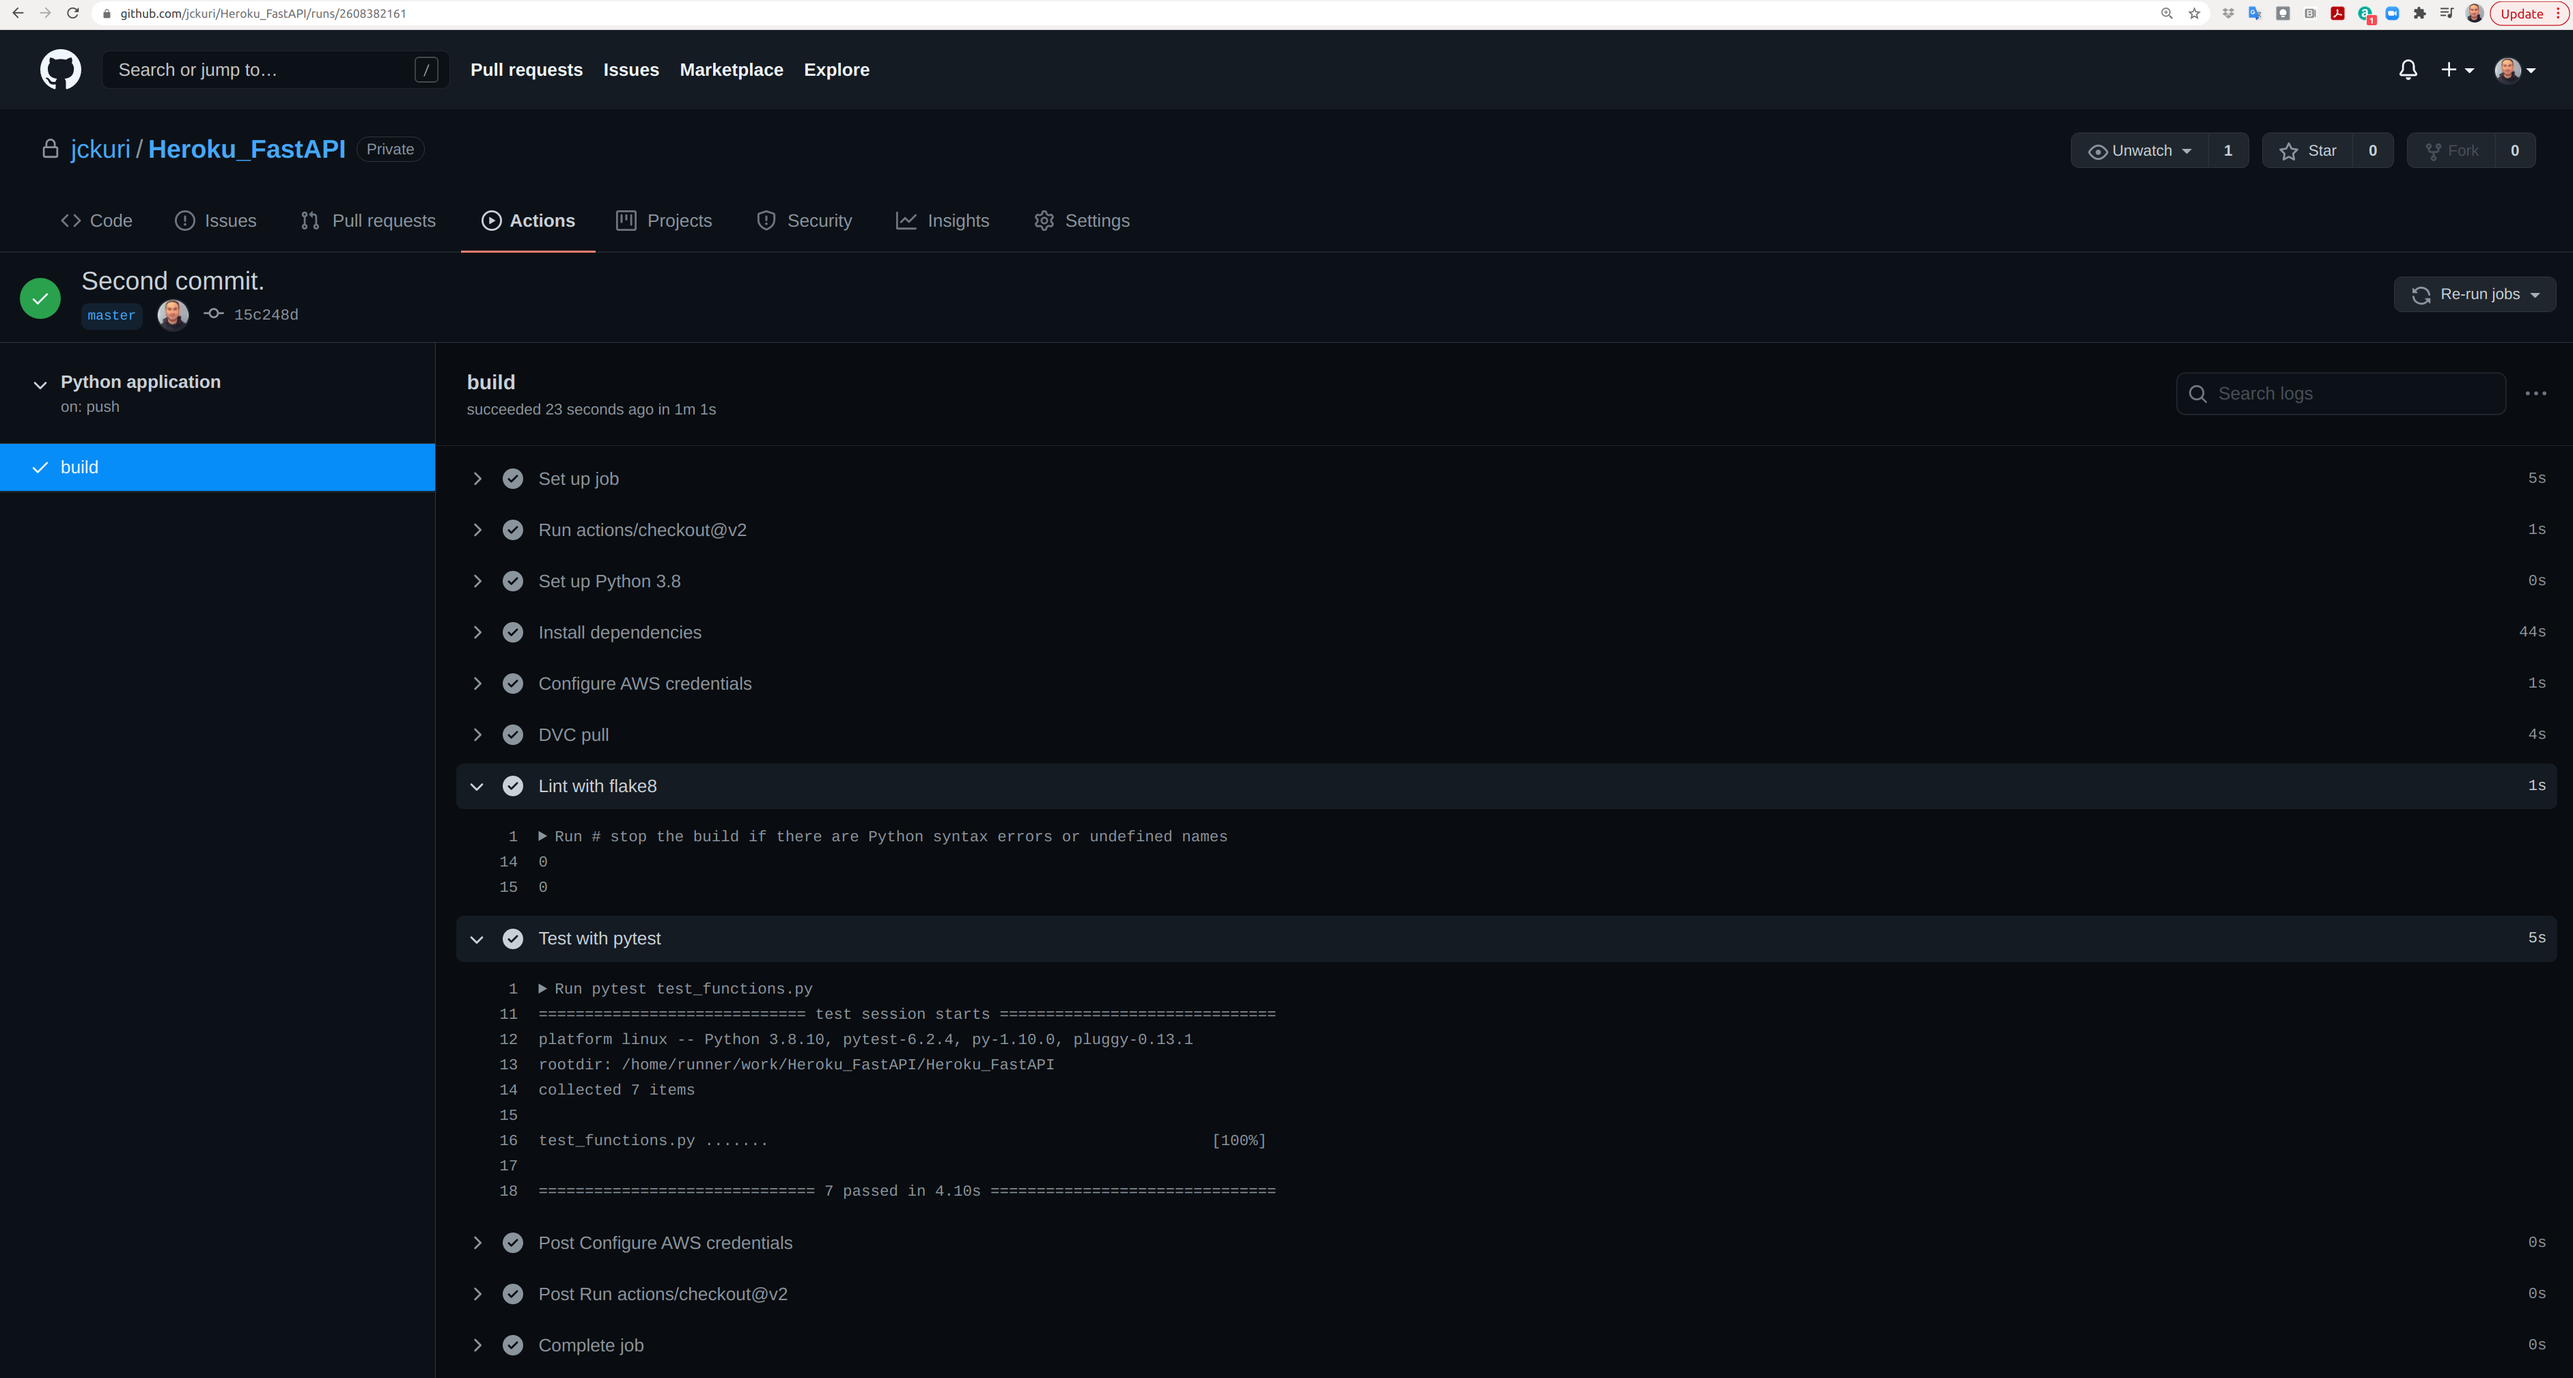
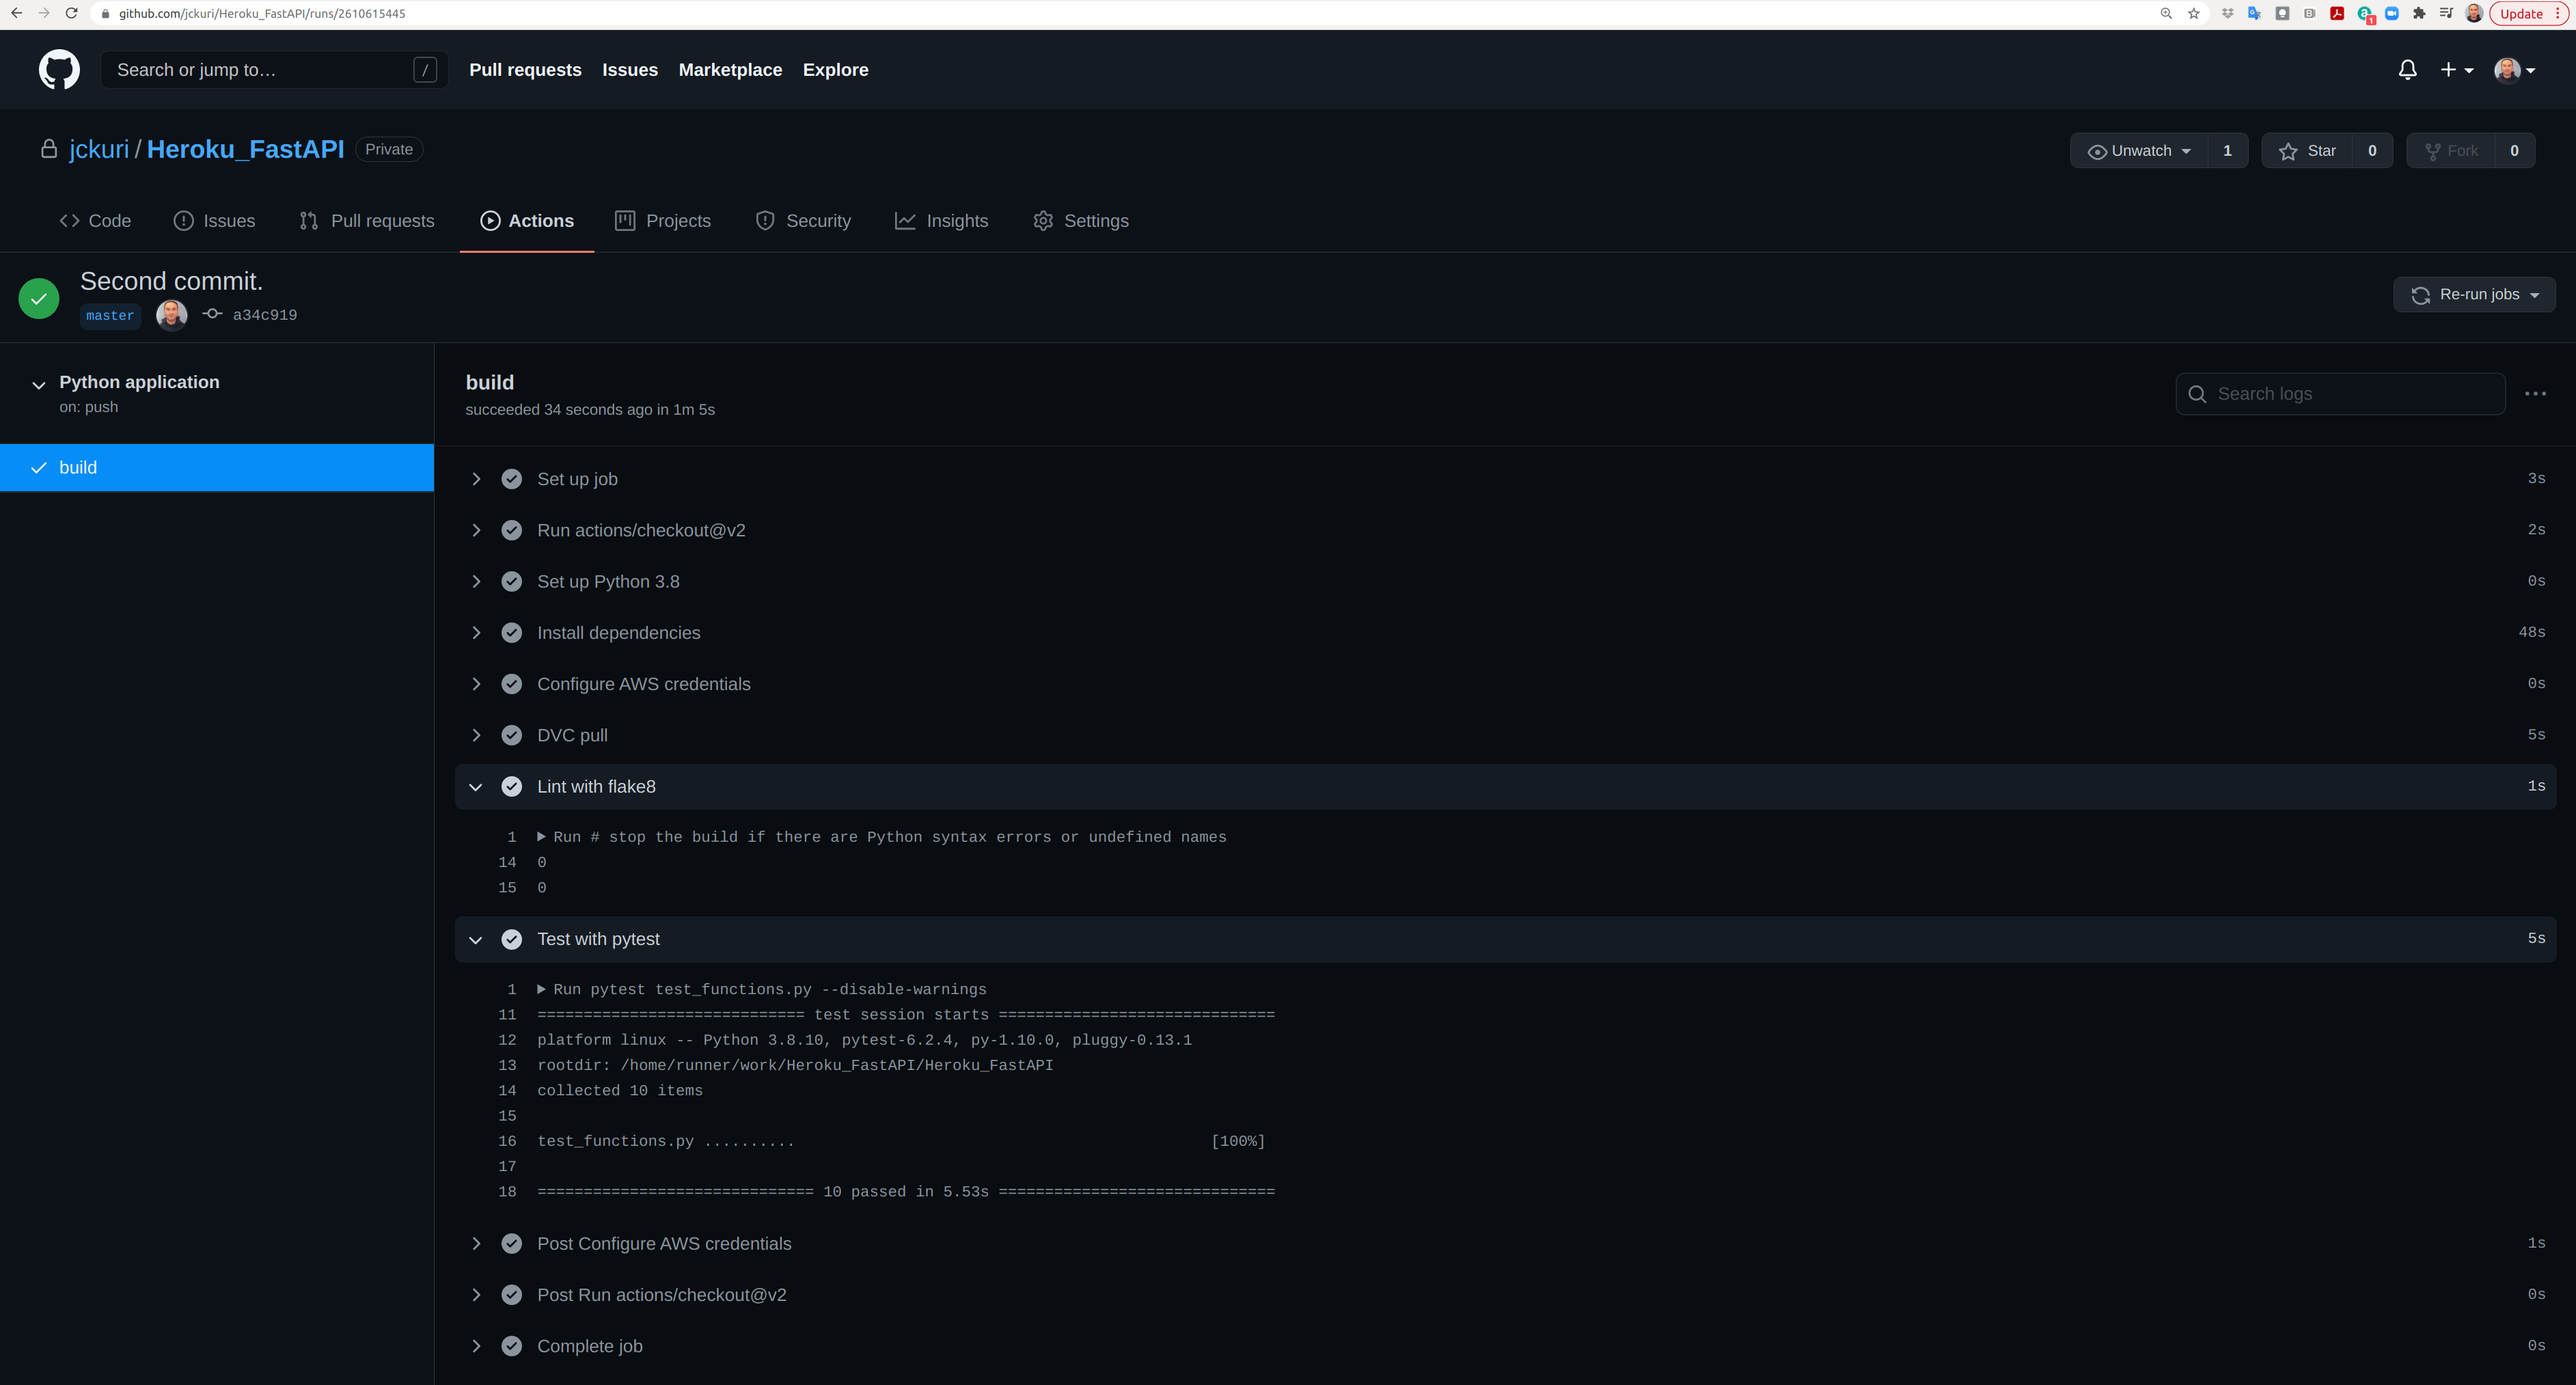
Second commit.

diff --git a/starter/starter/train_model.py b/starter/starter/train_model.py
@@ -183,9 +183,9 @@ def main():
     print_dataset_info("\nTest dataset", test_dataset)
     X_train, y_train, X_test, y_test, encoder, lb = process_datasets(
         train_dataset, test_dataset)
-    print('\nX_test[0]:\n', X_test[0])
+    #print('\nX_test[0]:\n', X_test[0])
 
-    # train_and_save_model(X_train, y_train)
+    train_and_save_model(X_train, y_train)
 
     model = ml_model.load_model(MODEL_FILE)
     compute_results(model, X_test, y_test)

diff --git a/README.md b/README.md
@@ -230,7 +230,116 @@ python starter/starter/train_model.py
 ```
 
 ```
-$ sh train_model.sh
+$ sh train_model.sh 
+
+Whole dataset (32561, 15):
+   age         workclass   fnlgt  education  education-num      marital-status         occupation   relationship   race     sex  capital-gain  capital-loss  hours-per-week native-country salary
+0   39         State-gov   77516  Bachelors             13       Never-married       Adm-clerical  Not-in-family  White    Male          2174             0              40  United-States  <=50K
+1   50  Self-emp-not-inc   83311  Bachelors             13  Married-civ-spouse    Exec-managerial        Husband  White    Male             0             0              13  United-States  <=50K
+2   38           Private  215646    HS-grad              9            Divorced  Handlers-cleaners  Not-in-family  White    Male             0             0              40  United-States  <=50K
+3   53           Private  234721       11th              7  Married-civ-spouse  Handlers-cleaners        Husband  Black    Male             0             0              40  United-States  <=50K
+4   28           Private  338409  Bachelors             13  Married-civ-spouse     Prof-specialty           Wife  Black  Female             0             0              40           Cuba  <=50K
+
+Train dataset (26048, 15):
+       age         workclass   fnlgt     education  education-num      marital-status       occupation   relationship   race     sex  capital-gain  capital-loss  hours-per-week native-country salary
+5514    33         Local-gov  198183     Bachelors             13       Never-married   Prof-specialty  Not-in-family  White  Female             0             0              50  United-States   >50K
+19777   36           Private   86459     Assoc-voc             11  Married-civ-spouse  Exec-managerial        Husband  White    Male             0          1887              50  United-States   >50K
+10781   58  Self-emp-not-inc  203039           9th              5           Separated     Craft-repair  Not-in-family  White    Male             0             0              40  United-States  <=50K
+32240   21           Private  180190     Assoc-voc             11  Married-civ-spouse  Farming-fishing        Husband  White    Male             0             0              46  United-States  <=50K
+9876    27           Private  279872  Some-college             10            Divorced    Other-service  Not-in-family  White    Male             0             0              40  United-States  <=50K
+
+Test dataset (6513, 15):
+       age         workclass   fnlgt     education  education-num      marital-status         occupation   relationship   race     sex  capital-gain  capital-loss  hours-per-week native-country salary
+14160   27           Private  160178  Some-college             10            Divorced       Adm-clerical  Not-in-family  White  Female             0             0              38  United-States  <=50K
+27048   45         State-gov   50567       HS-grad              9  Married-civ-spouse    Exec-managerial           Wife  White  Female             0             0              40  United-States  <=50K
+28868   29           Private  185908     Bachelors             13  Married-civ-spouse    Exec-managerial        Husband  Black    Male             0             0              55  United-States   >50K
+5667    30           Private  190040     Bachelors             13       Never-married  Machine-op-inspct  Not-in-family  White  Female             0             0              40  United-States  <=50K
+7827    29  Self-emp-not-inc  189346  Some-college             10            Divorced       Craft-repair  Not-in-family  White    Male          2202             0              50  United-States  <=50K
+Saving encoder:
+ OneHotEncoder(handle_unknown='ignore', sparse=False)
+Saving lb:
+ LabelBinarizer()
+X_train.shape=(26048, 108)
+y_train.shape=(26048,)
+X_test.shape=(6513, 108)
+y_test.shape=(6513,)
+
+Training model...
+Fitting 5 folds for each of 8 candidates, totalling 40 fits
+[CV 1/5] END criterion=gini, max_depth=25, max_features=auto, n_estimators=200;, score=0.851 total time=   5.5s
+[CV 2/5] END criterion=gini, max_depth=25, max_features=auto, n_estimators=200;, score=0.857 total time=   5.3s
+[CV 3/5] END criterion=gini, max_depth=25, max_features=auto, n_estimators=200;, score=0.859 total time=   5.3s
+[CV 4/5] END criterion=gini, max_depth=25, max_features=auto, n_estimators=200;, score=0.864 total time=   5.3s
+[CV 5/5] END criterion=gini, max_depth=25, max_features=auto, n_estimators=200;, score=0.866 total time=   5.2s
+[CV 1/5] END criterion=gini, max_depth=25, max_features=auto, n_estimators=500;, score=0.852 total time=  13.6s
+[CV 2/5] END criterion=gini, max_depth=25, max_features=auto, n_estimators=500;, score=0.858 total time=  13.4s
+[CV 3/5] END criterion=gini, max_depth=25, max_features=auto, n_estimators=500;, score=0.858 total time=  13.5s
+[CV 4/5] END criterion=gini, max_depth=25, max_features=auto, n_estimators=500;, score=0.865 total time=  13.5s
+[CV 5/5] END criterion=gini, max_depth=25, max_features=auto, n_estimators=500;, score=0.867 total time=  14.1s
+[CV 1/5] END criterion=gini, max_depth=100, max_features=auto, n_estimators=200;, score=0.845 total time=   6.3s
+[CV 2/5] END criterion=gini, max_depth=100, max_features=auto, n_estimators=200;, score=0.850 total time=   6.1s
+[CV 3/5] END criterion=gini, max_depth=100, max_features=auto, n_estimators=200;, score=0.850 total time=   5.9s
+[CV 4/5] END criterion=gini, max_depth=100, max_features=auto, n_estimators=200;, score=0.859 total time=   6.4s
+[CV 5/5] END criterion=gini, max_depth=100, max_features=auto, n_estimators=200;, score=0.860 total time=   6.4s
+[CV 1/5] END criterion=gini, max_depth=100, max_features=auto, n_estimators=500;, score=0.845 total time=  16.0s
+[CV 2/5] END criterion=gini, max_depth=100, max_features=auto, n_estimators=500;, score=0.851 total time=  15.9s
+[CV 3/5] END criterion=gini, max_depth=100, max_features=auto, n_estimators=500;, score=0.851 total time=  15.1s
+[CV 4/5] END criterion=gini, max_depth=100, max_features=auto, n_estimators=500;, score=0.858 total time=  15.1s
+[CV 5/5] END criterion=gini, max_depth=100, max_features=auto, n_estimators=500;, score=0.861 total time=  15.0s
+[CV 1/5] END criterion=entropy, max_depth=25, max_features=auto, n_estimators=200;, score=0.853 total time=   6.1s
+[CV 2/5] END criterion=entropy, max_depth=25, max_features=auto, n_estimators=200;, score=0.858 total time=   6.1s
+[CV 3/5] END criterion=entropy, max_depth=25, max_features=auto, n_estimators=200;, score=0.858 total time=   6.2s
+[CV 4/5] END criterion=entropy, max_depth=25, max_features=auto, n_estimators=200;, score=0.867 total time=   6.2s
+[CV 5/5] END criterion=entropy, max_depth=25, max_features=auto, n_estimators=200;, score=0.868 total time=   6.0s
+[CV 1/5] END criterion=entropy, max_depth=25, max_features=auto, n_estimators=500;, score=0.852 total time=  15.2s
+[CV 2/5] END criterion=entropy, max_depth=25, max_features=auto, n_estimators=500;, score=0.860 total time=  15.2s
+[CV 3/5] END criterion=entropy, max_depth=25, max_features=auto, n_estimators=500;, score=0.859 total time=  15.4s
+[CV 4/5] END criterion=entropy, max_depth=25, max_features=auto, n_estimators=500;, score=0.868 total time=  15.3s
+[CV 5/5] END criterion=entropy, max_depth=25, max_features=auto, n_estimators=500;, score=0.868 total time=  15.0s
+[CV 1/5] END criterion=entropy, max_depth=100, max_features=auto, n_estimators=200;, score=0.843 total time=   7.0s
+[CV 2/5] END criterion=entropy, max_depth=100, max_features=auto, n_estimators=200;, score=0.853 total time=   7.0s
+[CV 3/5] END criterion=entropy, max_depth=100, max_features=auto, n_estimators=200;, score=0.853 total time=   7.1s
+[CV 4/5] END criterion=entropy, max_depth=100, max_features=auto, n_estimators=200;, score=0.859 total time=   7.1s
+[CV 5/5] END criterion=entropy, max_depth=100, max_features=auto, n_estimators=200;, score=0.860 total time=   7.0s
+[CV 1/5] END criterion=entropy, max_depth=100, max_features=auto, n_estimators=500;, score=0.845 total time=  17.7s
+[CV 2/5] END criterion=entropy, max_depth=100, max_features=auto, n_estimators=500;, score=0.855 total time=  17.5s
+[CV 3/5] END criterion=entropy, max_depth=100, max_features=auto, n_estimators=500;, score=0.852 total time=  17.7s
+[CV 4/5] END criterion=entropy, max_depth=100, max_features=auto, n_estimators=500;, score=0.859 total time=  17.7s
+[CV 5/5] END criterion=entropy, max_depth=100, max_features=auto, n_estimators=500;, score=0.861 total time=  17.7s
+The model was trained in 7 minutes 33.25 seconds.
+
+precision=0.7811745776347546
+recall=0.6180776575429663
+fbeta=0.6901208244491827
+f1_score=0.6901208244491827
+
+young_people.shape (5211, 15)
+old_people.shape (1302, 15)
+young_people + old_people: 6513 
+
+men.shape (4387, 15)
+women.shape (2126, 15)
+men + women: 6513 
+
+young_men.shape (3462, 15)
+young_women.shape (1749, 15)
+old_men.shape (925, 15)
+old_women.shape (377, 15)
+young_men + young_women + old_men + old_women: 6513 
+
+ALL: test_dataset.shape (6513, 15)
+
+SLICE			PRECISION	RECALL		F-BETA		F1-SCORE
+Young Men		0.7875		0.6408		0.7066		0.7066
+Young Women		0.7559		0.5026		0.6038		0.6038
+Old Men			0.7848		0.6371		0.7033		0.7033
+Old Women		0.6786		0.4524		0.5429		0.5429
+Young			0.7831		0.6180		0.6908		0.6908
+Old			0.7758		0.6184		0.6882		0.6882
+Men			0.7868		0.6398		0.7057		0.7057
+Women			0.7419		0.4936		0.5928		0.5928
+Test Dataset		0.7812		0.6181		0.6901		0.6901
+
 ```
 
 --------------------------------------------------------------------------------
